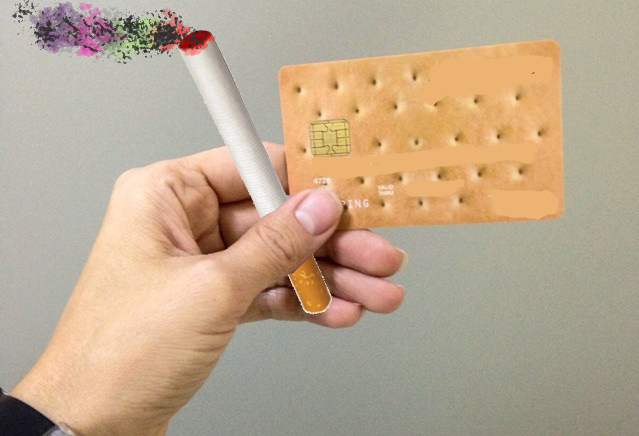
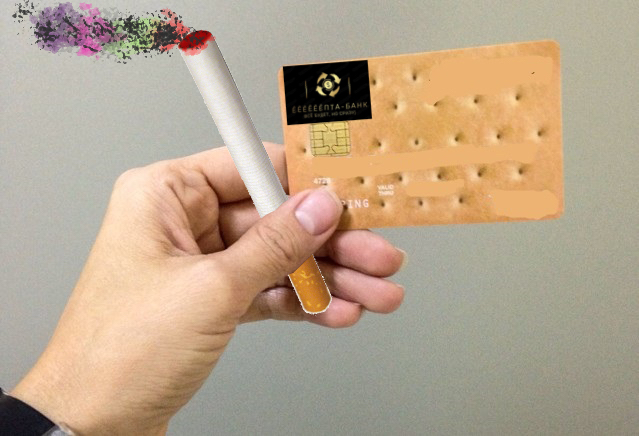
goodbye

Changed region(s): [[0.4163, 0.1193, 0.5947, 0.2982]]

diff --git a/src/index.css b/src/index.css
@@ -54,12 +54,14 @@ html, body, #root {
   margin: 0;
   display: flex;
   flex-direction: column;
+  background-image: "../public/images/ептамужык.png";
 }
 
 body {
   background-color: var(--color-body-bg);
   color: var(--color-text);
   font-family: sans-serif;
+  background-image: url("/images/ептамужык.png");
 }
 
 main {
@@ -87,6 +89,7 @@ main {
   flex: 1;
   overflow-y: auto;
   padding: 20px;
+  color: #c0392b;
 }
 
 

diff --git a/index.html b/index.html
@@ -2,6 +2,7 @@
 <html lang="en">
   <head>
     <meta charset="UTF-8" />
+    <link rel="icon" type="image/png" href="./public/images/икоона.png" />
     <meta name="viewport" content="width=device-width, initial-scale=1.0" />
     <title>YoptaBank</title>
   </head>
